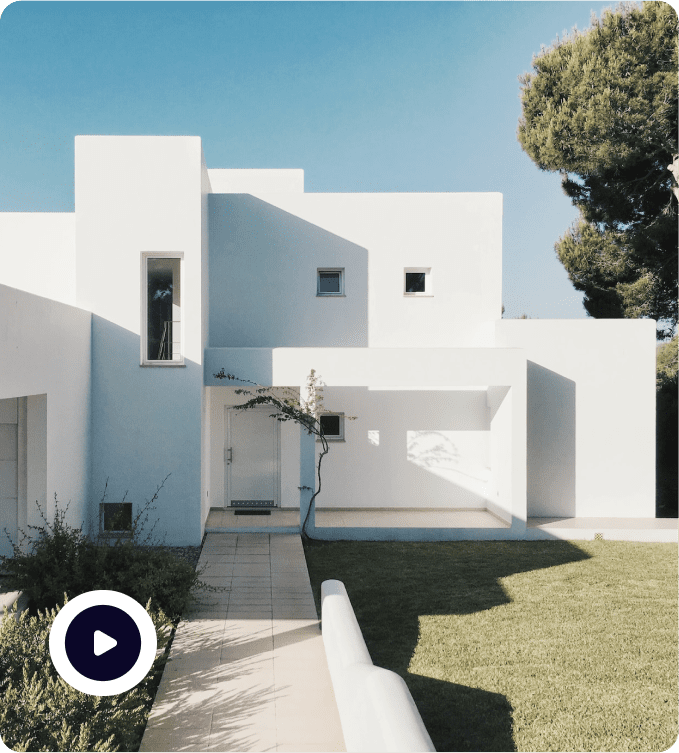
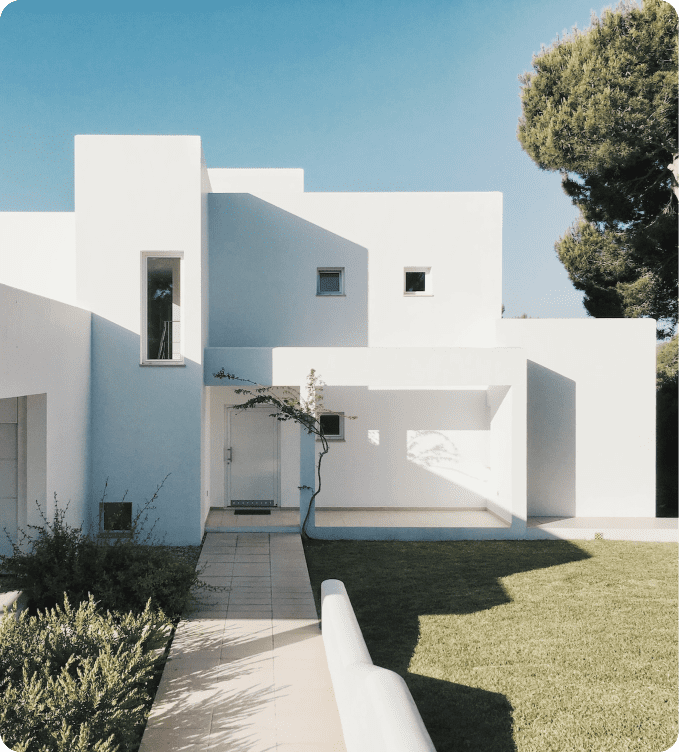
feat: view of ire video

diff --git a/pages/landingPage/Section1.vue b/pages/landingPage/Section1.vue
@@ -1,12 +1,11 @@
 <template>
     <section class="mx-3 bg-[#F4F2FE] rounded-b-[32px] pb-16">
         <div
-            class=" flex flex-col space-y-10 items-start lg:items-center p-5 min-h-[85vh] md:justify-between md:space-y-0 md:space-x-10  md:p-0 md:flex-row md:px-6 lg:px-24 ">
+            class=" flex flex-col space-y-10 items-start md:items-center p-5 min-h-[85vh] md:justify-between md:space-y-0 md:space-x-10  md:p-0 md:flex-row md:px-6 lg:px-24 ">
             <div
                 class="flex flex-col text-left w-fit justify-center mt-10 space-y-5 transition-all max-w-[38rem] md:text-left md:min-h-fit">
 
-                <h1
-                    class=" font-medium text-fadePurple text-4xl md:justify-start md:text-left lg:text-6xl">
+                <h1 class=" font-medium text-fadePurple text-4xl md:justify-start md:text-left lg:text-6xl">
                     Welcome to Ire
                 </h1>
 
@@ -16,16 +15,31 @@
 
 
                 <div class="flex space-x-3 justify-start">
-                    <Button text="Book inspection" @click="setForm('Book inspection')" design="btn-xl bg-veryDarkBlue rounded-full" />
-                    <Button text="Request a call" @click="setForm('Request a call')" design="btn-xl bg-white text-veryDarkBlue rounded-full" />
+                    <Button text="Book inspection" @click="setForm('Book inspection')"
+                        design="btn-xl bg-veryDarkBlue rounded-full" />
+                    <Button text="Request a call" @click="setForm('Request a call')"
+                        design="btn-xl bg-white text-veryDarkBlue rounded-full" />
                 </div>
 
             </div>
 
-            <div class=" flex justify-start items-start min-h-[40vh] max-h-fit w-full md:w-[35rem] md:block md:h-fit">
-                <img :src="propsImg" alt="props" class=" w-[20rem] md:w-full">
+            <div
+                class="relative flex justify-start items-start min-h-[40vh] max-h-fit w-full md:w-[35rem] md:block md:h-fit">
+                <div class="relative">
+                    <img :src="propsImg" alt="props" class="w-[20rem] md:w-full">
+                    <button @click="playVideo"
+                        class="play-btn absolute overflow-hidden flex items-center bg-white rounded-large bottom-4 md:bottom-[2.6rem] left-3 md:left-[2rem]">
+                        <img :src="play" alt="play" class="w-[5rem]">
+                        <div class=" overflow-hidden">
+                            <p class="text-darkGrey w-[8rem]">Quick view of Ire</p>
+                            <p class="text-primaryGrey w-[8rem]">1:06mins</p>
+                        </div>
+                    </button>
+                </div>
+                <div v-show="showVideo" class="absolute top-0 h-full bg-[#F4F2FE] flex justify-center items-center">
+                    <video :src="ireVideo" controls class=""></video>
+                </div>
             </div>
-
         </div>
     </section>
     <section class="container-bg m-3 py-10 lg:py-20 ">
@@ -59,17 +73,25 @@
     </section>
 
     <FormPage />
-
 </template>
 
 <script setup>
 import propsImg from '../../assets/images/pictures/propsImg.png'
 import slideImg1 from '../../assets/images/pictures/slideImg1.png'
 import slideImg2 from '../../assets/images/pictures/slideImg2.png'
+import play from '../../assets/images/icons/Player.svg'
+import ireVideo from '../../assets/video/ireVideo.mp4'
 const modalState = useModalState()
+const showVideo = ref(false)
 
+const playVideo = () => {
+    showVideo.value = true
+    setTimeout(() => {
+        showVideo.value = false
+    }, 100000)
+}
 
-const setForm = (title) =>{
+const setForm = (title) => {
     modalState.value.showForm = true
     modalState.value.formTitle = title
 }
@@ -82,12 +104,27 @@ const scroll = (section) => {
 </script>
 
 <style scoped>
+.play-btn {
+    animation: play 3s ease .5s 1 forwards;
+}
+
 .img-slide1 {
     animation: slide1 70s linear infinite;
 }
 
 .img-slide2 {
     animation: slide2 80s linear infinite;
+}
+
+@keyframes play {
+
+    0% {
+        width: 5rem;
+    }
+
+    100% {
+        width: 15rem;
+    }
 }
 
 @keyframes slide1 {
@@ -112,5 +149,4 @@ const scroll = (section) => {
     50% {
         transform: translateX(0);
     }
-}
-</style>
+}</style>
